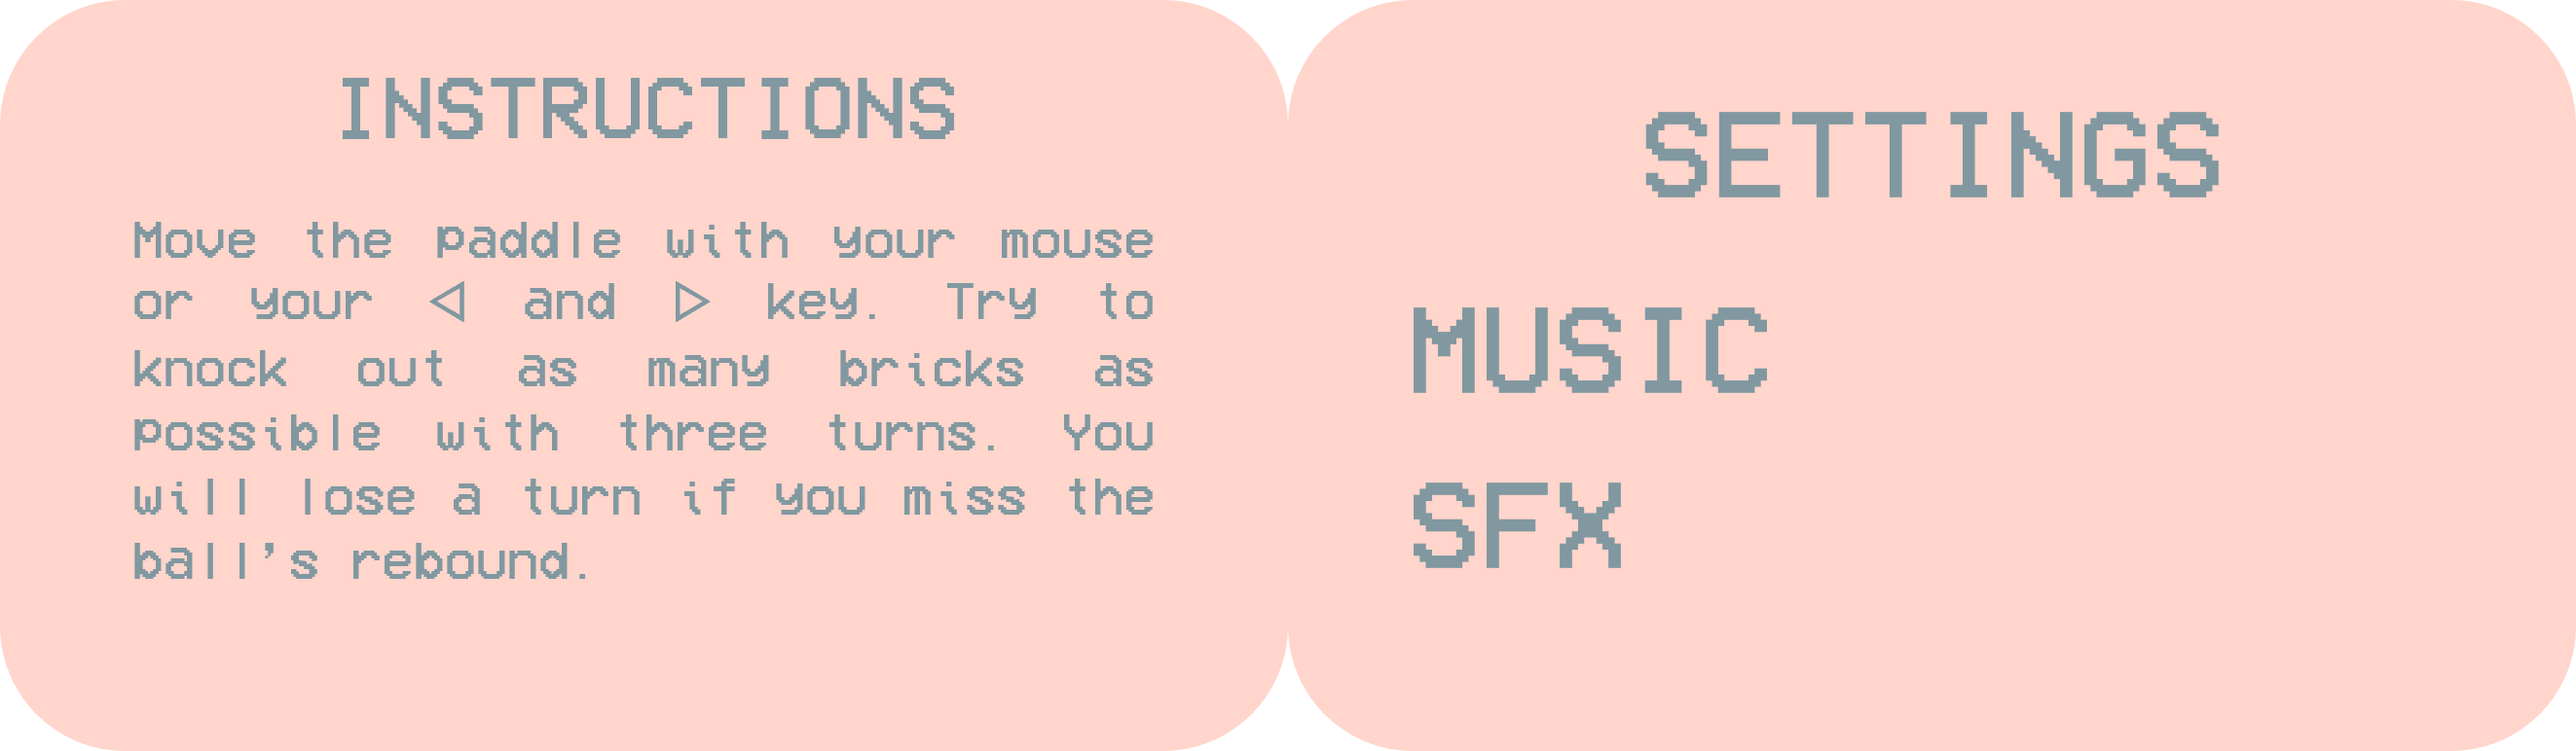
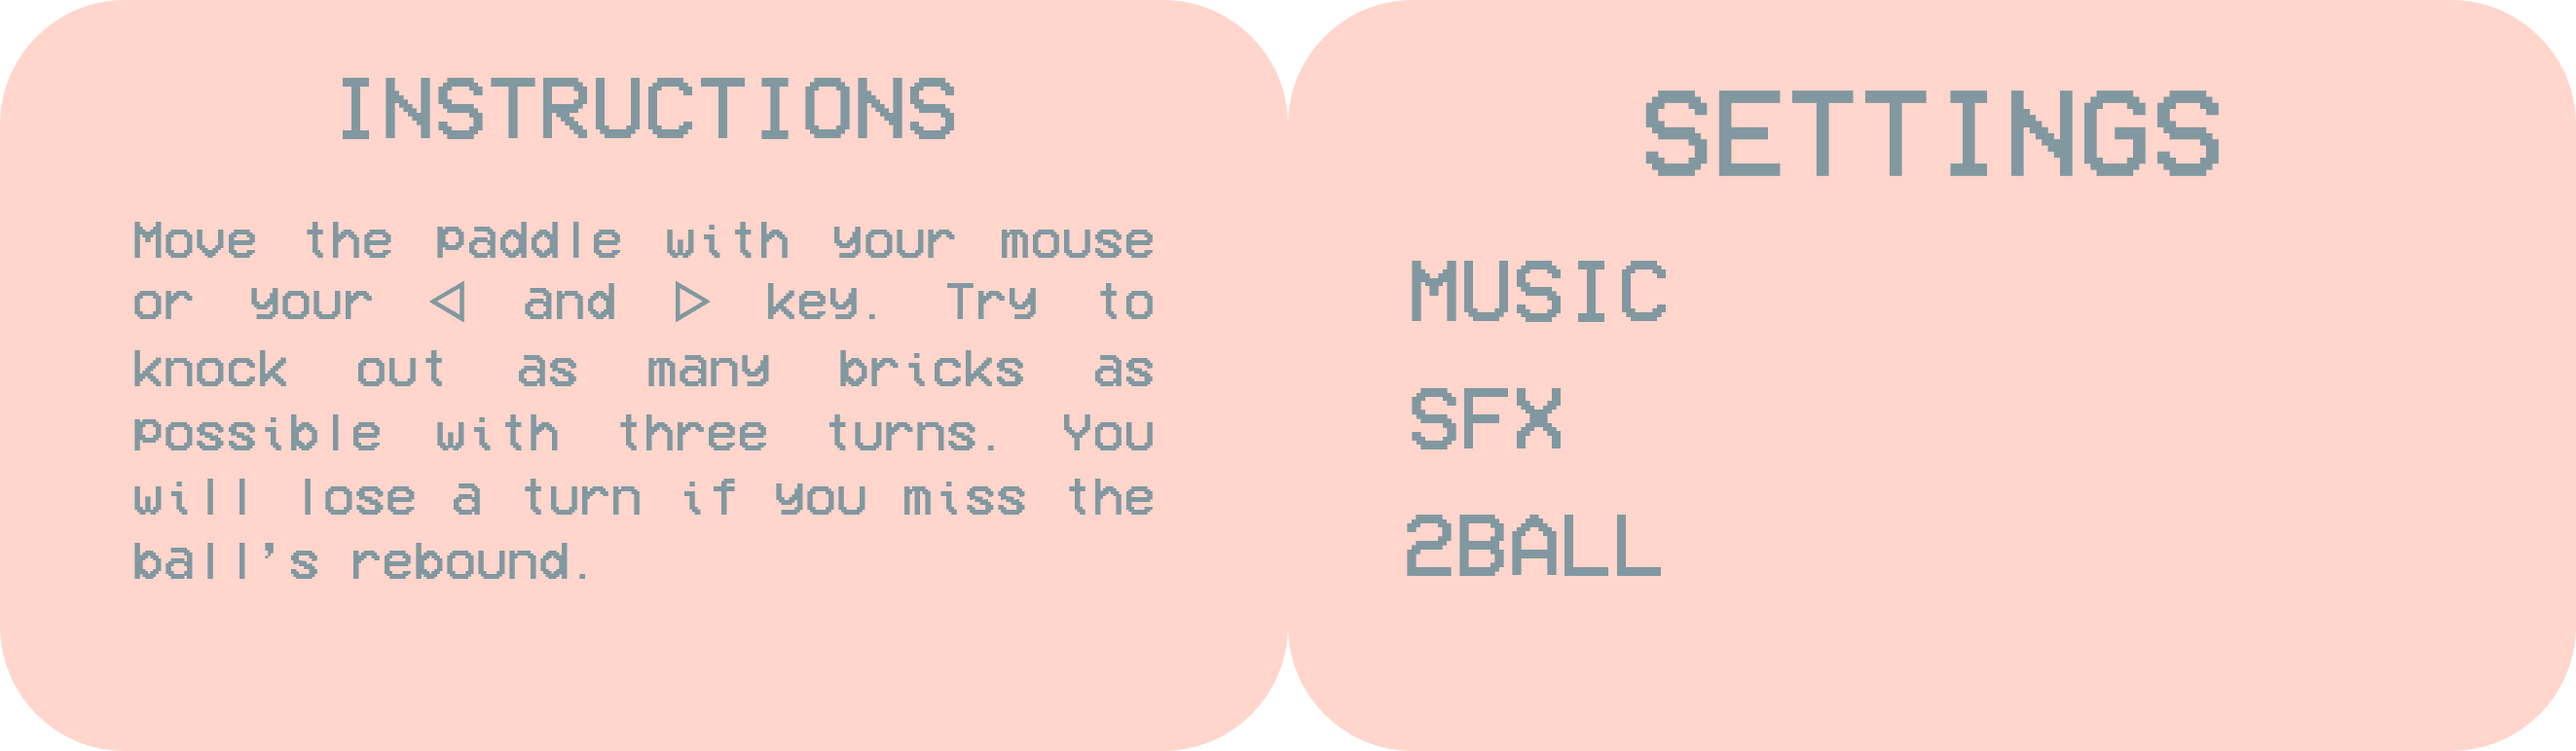
Added 2ball mode

Changed region(s): [[0.6198, 0.0933, 0.8677, 0.2798], [0.5268, 0.342, 0.6818, 0.5907], [0.5268, 0.6218, 0.6508, 0.7772]]

diff --git a/Game.cpp b/Game.cpp
@@ -11,7 +11,7 @@ Game::Game(int p_trials, int bricks_per_row, int num_rows)
 
 void Game::run() {
     loadButtons();
-    brickManager->generateBricks();
+    //brickManager->generateBricks();
     paddle.setScale(0.2f * constants::SCREEN_WIDTH / paddle.getWidth());
 
     float ballX = paddle.x + paddle.getWidth() * 0.5f - paddle.getHeight() * 0.5f;
@@ -20,9 +20,13 @@ void Game::run() {
 
     ball.x = ballX;
     ball.y = ballY;
+    ball2.x = ballX + ball.getWidth() + 15;
+    ball2.y = ballY;
     ball.ballAngle = ballAngle;
-    ball.setScale(paddle.getScale());
+    ball2.ballAngle = ballAngle + constants::PI / 2;
 
+    ball.setScale(paddle.getScale());
+    ball2.setScale(paddle.getScale());
     background.setScale(float(constants::SCREEN_WIDTH) / background.getWidth());
 
     state = GAME_STATE_INITIAL;
@@ -101,6 +105,7 @@ void Game::update(double dt) {
                 {
                     musicCheckboxBtn.update();
                     sfxCheckBoxBtn.update();
+                    twoBallCheckBoxBtn.update();
                 }
             }
             break;
@@ -114,7 +119,14 @@ void Game::update(double dt) {
             handlePaddleMovement(currentKeyStates, mouseMoved);
             ball.checkEdgeCollision(paddle, attempts);
             ball.checkPaddleCollision(paddle);
-            int newScore = brickManager->checkBallBricksCollision(ball);
+            int newScore = 0;
+            if (twoBall)
+            {
+                ball2.checkEdgeCollision(paddle, attempts);
+                ball2.checkPaddleCollision(paddle);
+                newScore += brickManager->checkBallBricksCollision(ball2);
+            }
+            newScore += brickManager->checkBallBricksCollision(ball);
 
             score += newScore;
             if (newScore > 0)
@@ -124,7 +136,8 @@ void Game::update(double dt) {
                 animator.startAnimation(brickManager->lastHitX, brickManager->lastHitY);
             }
             ball.updatePosition(dt);
-
+            if (twoBall)
+                ball2.updatePosition(dt);
             // Check game state
             if (brickManager->getRemainingBricks() == 0) state = GAME_STATE_WON;
             if (attempts < 0)
@@ -172,6 +185,7 @@ void Game::render() {
                 window.renderSprite(menuSprite);
                 window.renderButton(musicCheckboxBtn);
                 window.renderButton(sfxCheckBoxBtn);
+                window.renderButton(twoBallCheckBoxBtn);
                 window.renderButton(okButton);
             } else if (helpMenu)
             {
@@ -204,6 +218,8 @@ void Game::render() {
 
             window.render(paddle);
             window.render(ball);
+            if (twoBall)
+                window.render(ball2);
             brickManager->renderBricks(window);
 
             if (state == GAME_STATE_PAUSED)
@@ -253,7 +269,11 @@ void Game::reset(bool nextLevel) {
     paddle.x = 0.4 * constants::SCREEN_WIDTH;
     paddle.y = constants::SCREEN_HEIGHT - 0.03 * constants::SCREEN_WIDTH;
     ball.resetPosition(paddle);
+    if (twoBall)
+        ball2.resetPosition(paddle);
     attempts = 3;
+    if (twoBall)
+        attempts += 3;
     score = 0;
     state = GAME_STATE_PLAYING;
 }
@@ -317,12 +337,12 @@ void Game::handleMouseButtonUp()
     else if (sfxCheckBoxBtn.state == BUTTON_STATE_HOVER)
     {
         sfxCheckBoxBtn.swapState();
-        if (soundPlayer.sfxPlaying)
-        {
-            soundPlayer.sfxPlaying = false;
-        } else {
-            soundPlayer.sfxPlaying = true;
-        }
+        soundPlayer.sfxPlaying = !soundPlayer.sfxPlaying;
+    }
+    else if (twoBallCheckBoxBtn.state == BUTTON_STATE_HOVER)
+    {
+        twoBallCheckBoxBtn.swapState();
+        twoBall = !twoBall;
     }
     else if (exitBtn.state == BUTTON_STATE_HOVER)
         gameRunning = false;

diff --git a/Game.Button.cpp b/Game.Button.cpp
@@ -39,13 +39,19 @@ void Game::loadStartMenuButtons()
     okButton.x = menuSprite.x + menuSprite.getWidth() * 0.5f - 0.5f * okButton.getWidth();
     okButton.y = menuSprite.y + menuSprite.getHeight() * 0.82f;
 
-    musicCheckboxBtn.setScale(startBtn.getScale() + 0.3);
-    sfxCheckBoxBtn.setScale(startBtn.getScale() + 0.3);
+    musicCheckboxBtn.setScale(startBtn.getScale() + 0.1);
+    sfxCheckBoxBtn.setScale(startBtn.getScale() + 0.1);
+    twoBallCheckBoxBtn.setScale(musicCheckboxBtn.getScale());
+
     musicCheckboxBtn.x = menuSprite.x + menuSprite.getWidth() * 0.75f;
     sfxCheckBoxBtn.x = musicCheckboxBtn.x;
+    twoBallCheckBoxBtn.x = musicCheckboxBtn.x;
 
-    musicCheckboxBtn.y = menuSprite.y + menuSprite.getHeight() * 0.5f - musicCheckboxBtn.getHeight() * 0.7f;
+    musicCheckboxBtn.y = menuSprite.y + menuSprite.getHeight() * 0.4f - musicCheckboxBtn.getHeight() * 0.62f;
     sfxCheckBoxBtn.y = musicCheckboxBtn.y + 1.1f * musicCheckboxBtn.getHeight();
+    twoBallCheckBoxBtn.y = sfxCheckBoxBtn.y + 1.1f * sfxCheckBoxBtn.getHeight();
+
+    twoBallCheckBoxBtn.swapState();
 }
 
 void Game::loadPauseMenuButtons()

diff --git a/Game.h b/Game.h
@@ -38,10 +38,12 @@ private:
     Button resetBtn = Button({0, 406, 203, 203}, pauseMenuBtnTex);
     ToggleButton musicCheckboxBtn = ToggleButton({0, 0, 100, 100}, checkboxBtnTex);
     ToggleButton sfxCheckBoxBtn = ToggleButton({0, 0, 100, 100}, checkboxBtnTex);
+    ToggleButton twoBallCheckBoxBtn = ToggleButton({0, 0, 100, 100}, checkboxBtnTex);
     Button okButton = Button({0, 100, 100, 100}, checkboxBtnTex);
     GameObject pauseMenu = GameObject(0, 0, pauseMenuTex);
     GameObject paddle = GameObject(0.4 * constants::SCREEN_WIDTH, constants::SCREEN_HEIGHT - 0.03 * constants::SCREEN_WIDTH, paddleTex);
     Ball ball = Ball(0, 0, ballTex, 0, constants::DEFAULT_BALL_SPEED);
+    Ball ball2 = Ball(0, 0, ballTex, 0, constants::DEFAULT_BALL_SPEED);
 
     // Start menu buttons
     Button startBtn = Button({0, 0, 640, 180}, startMenuBtnTex);
@@ -57,7 +59,7 @@ private:
     int attempts;
     int score;
     bool gameRunning;
-    bool settingsMenu = false, helpMenu = false;
+    bool settingsMenu = false, helpMenu = false, twoBall = false;
 
     GameState state = GAME_STATE_INITIAL;
     void update(double dt);

diff --git a/README.md b/README.md
@@ -16,10 +16,9 @@ An attempt to recreate the classic [Atari Breakout](https://en.wikipedia.org/wik
 
 - [x]  Classic game features (ball, paddle and collisions)
 - [x]  Game menu
-- [ ]  Brick explosion on collision
+- [x]  Animation on brick collision
 - [x]  Unlimited levels
-- [ ]  Audio
-- [ ]  Themes
+- [x]  Audio
 
 ## Building
 
@@ -30,7 +29,7 @@ An attempt to recreate the classic [Atari Breakout](https://en.wikipedia.org/wik
 - Run the following command
 
 ```
-g++ -g *.cpp -I SDL2/include -L SDL2/lib -lmingw32 -lSDL2main -lSDL2 -lSDL2_image -lSDL2_ttf -o game.exe
+g++ -g *.cpp -I SDL2/include -L SDL2/lib -lmingw32 -lSDL2main -lSDL2 -lSDL2_image -lSDL2_ttf -lSDL2_mixer -o game.exe
 ```
 
 - Copy the runtime binaries to the output folder (copy `.dll` files)
@@ -47,6 +46,8 @@ brew install SDL2
 brew install SDL2_image
 
 brew install SDL2_ttf
+
+brew install SDL2_mixer
 ```
 
 - Go to [SDL2 Homepage](https://www.libsdl.org/download-2.0.php) and download SDL2-2.0.20.dmg
